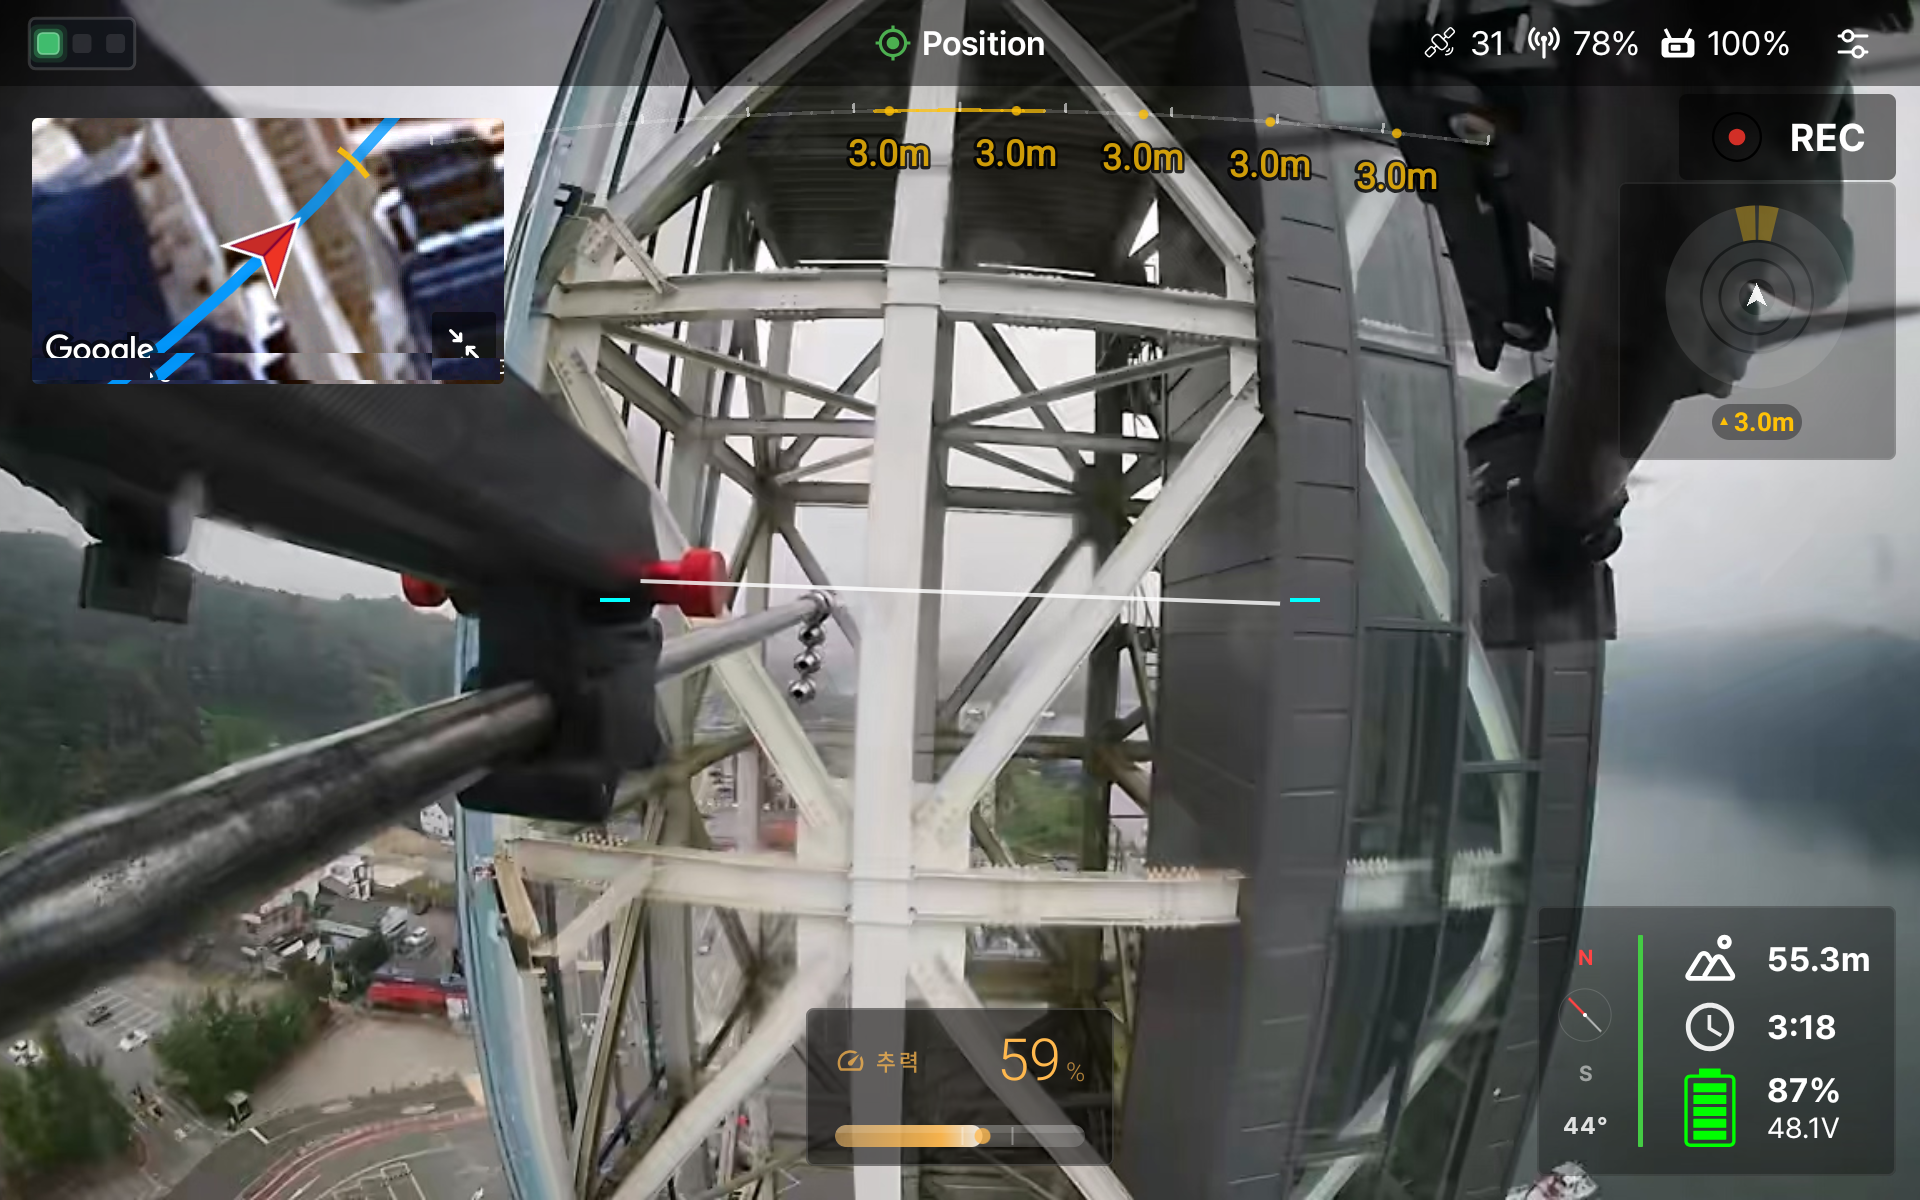
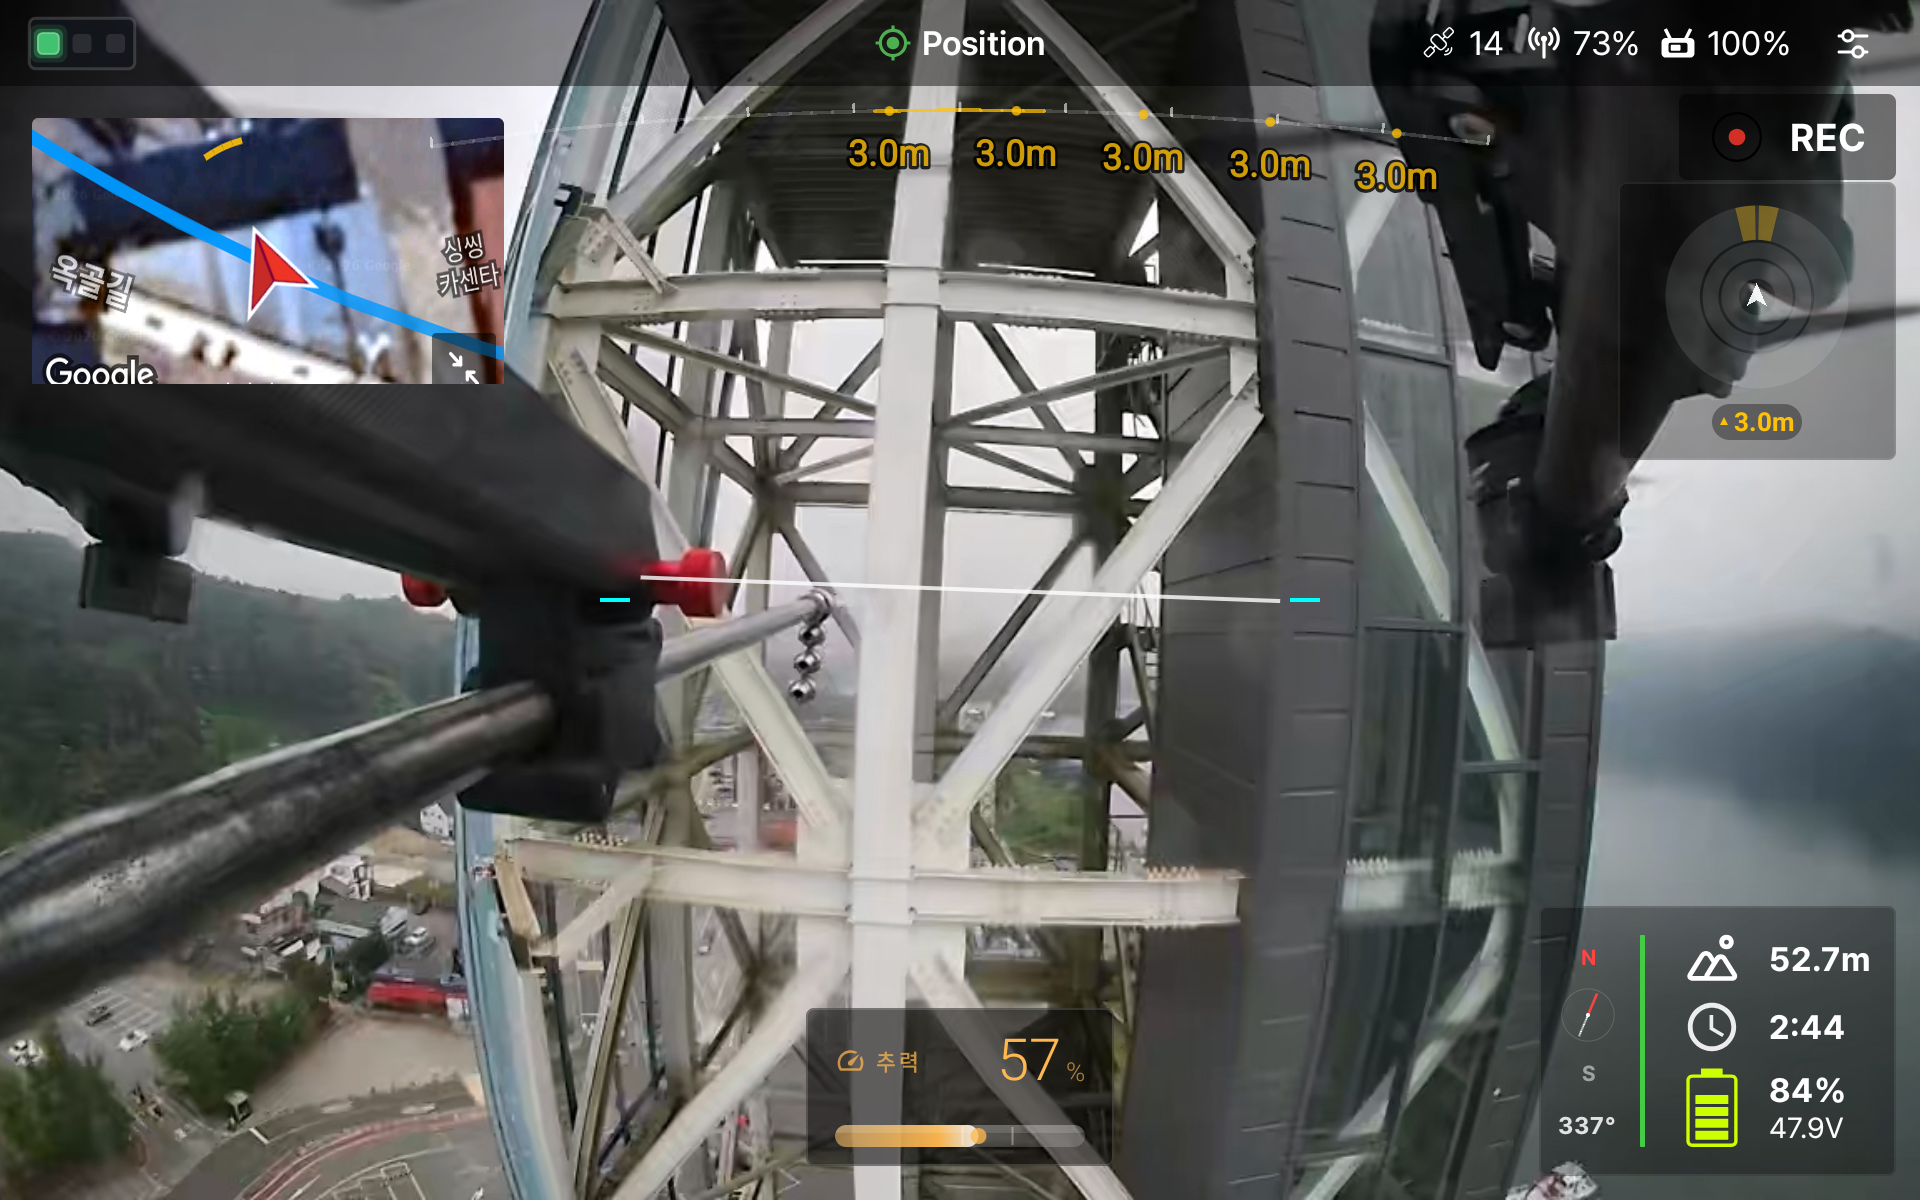
drtview: 지적사항 전면 재촬영 — 장면별 장애물·텔레메트리 정합, 지도 궤적·공역 경계
- fake_drone v4: --scene 프리셋 도입. 장면마다 OBSTACLE_DISTANCE 배열을 배경 프레임과
  정합(개활지=무장애, 들판=전방 원거리, 호반=후방 쿼터, 도심=측면, 타워=전방 3m)하고
  고도·배터리·전압·위성·링크·비행시간·추력을 전부 다르게 송신
- 비행샷 6종 재촬영: 모든 장면에 동일한 전방 3m 리본이 박히던 문제 해소
- map_main: 곡선 궤적이 드러나는 시점으로 재촬영, 비행시간·배터리 정합(8:10/68%)
- 공역: 비행금지구역 경계선이 화면을 가로지르는 지점에서 촬영, 롱프레스 팝업도 동일 좌표
- 지도 저작권 줄 제거를 크롭 방식으로 교체 — 밴드 복제 이음매와 Google 로고 잘림 해소
- 페이지: 히어로를 크롭 없는 전체 표시로 전환, 언어 지원을 독립 섹션으로 승격,
  다운로드 버튼 새 창, 구버전 AR 스크린샷 제거

diff --git a/pages/drtview.html b/pages/drtview.html
@@ -39,26 +39,22 @@
 #dv26 .rv-d2 { transition-delay: .24s; }
 
 /* ============ HERO ============ */
-.dv-hero { position: relative; min-height: 100vh; display: flex !important; flex-direction: column; overflow: hidden; background: var(--bg); }
-.dv-hero-bg { position: absolute; inset: 0; width: 100%; height: 100%; object-fit: cover; object-position: center 42%; }
-.dv-hero-scrim { position: absolute; inset: 0;
-    background: linear-gradient(180deg, rgba(10,12,16,.66) 0%, rgba(10,12,16,.28) 36%, rgba(10,12,16,.55) 68%, rgba(9,11,14,.96) 100%); }
-.dv-hero-top { position: relative; padding: 52px 0 0 !important; text-align: center; }
-.dv-hero-top img { height: 46px; }
-.dv-hero-body { position: relative; margin-top: auto !important; width: 100%; padding-bottom: 140px !important; }
+.dv-hero { position: relative; overflow: hidden; background: radial-gradient(ellipse 90% 60% at 50% -10%, #141B26 0%, var(--bg) 60%) !important; padding-top: 78px !important; }
+.dv-hero-head { text-align: center; }
+.dv-hero-head .dv-logo { height: 48px; margin-bottom: 54px !important; }
 .dv-eyebrow { display: block !important; font-family: 'Outfit', sans-serif; color: var(--accent) !important; font-weight: 700 !important; font-size: .92rem !important; letter-spacing: .3em !important; margin-bottom: 26px !important; text-transform: uppercase; }
-.dv-h1 { font-size: clamp(2.6rem, 6vw, 5.3rem) !important; font-weight: 800 !important; line-height: 1.12 !important; letter-spacing: -0.03em !important; color: var(--ink) !important; margin-bottom: 30px !important; }
-.dv-hero-sub { color: rgba(237,241,246,.85) !important; font-size: 1.24rem !important; line-height: 1.85 !important; max-width: 680px; margin-bottom: 46px !important; }
+.dv-h1 { font-size: clamp(2.6rem, 5.4vw, 5rem) !important; font-weight: 800 !important; line-height: 1.14 !important; letter-spacing: -0.03em !important; color: var(--ink) !important; margin-bottom: 28px !important; }
+.dv-hero-sub { color: var(--dim-strong) !important; font-size: 1.24rem !important; line-height: 1.85 !important; max-width: 680px; margin: 0 auto 44px auto !important; }
 .dv-actions { display: flex; gap: 16px; flex-wrap: wrap; }
+.dv-hero-head .dv-actions { justify-content: center; }
+/* 히어로 스크린샷 — 크롭 없이 전체 표시 */
+.dv-hero-visual { margin-top: 74px !important; }
+.dv-hero-visual img { width: 100% !important; display: block !important; }
 .dv-btn { display: inline-block !important; padding: 17px 46px !important; border-radius: 10px !important; font-weight: 800 !important; font-size: 1rem !important; letter-spacing: .12em !important; cursor: pointer; transition: .25s ease; }
 .dv-btn-solid { background: var(--accent) !important; color: #fff !important; }
 .dv-btn-solid:hover { background: #55AFFF !important; transform: translateY(-2px); }
 .dv-btn-ghost { border: 1px solid rgba(255,255,255,.34) !important; color: var(--ink) !important; background: rgba(10,12,16,.38) !important; letter-spacing: .04em !important; }
 .dv-btn-ghost:hover { border-color: rgba(255,255,255,.7) !important; }
-.dv-scrollcue { position: absolute; bottom: 0; left: 50%; transform: translateX(-50%); display: flex; flex-direction: column; align-items: center; gap: 10px; }
-.dv-scrollcue span { font-size: .7rem; letter-spacing: .34em; color: var(--dim); font-family: 'Outfit', sans-serif; font-weight: 600; }
-.dv-scrollcue i { display: block; width: 1px; height: 52px; background: linear-gradient(180deg, var(--accent), transparent); animation: dvcue 2s ease-in-out infinite; }
-@keyframes dvcue { 0% { transform: scaleY(0); transform-origin: top; } 45% { transform: scaleY(1); transform-origin: top; } 55% { transform: scaleY(1); transform-origin: bottom; } 100% { transform: scaleY(0); transform-origin: bottom; } }
 
 /* ============ FACT STRIP ============ */
 .dv-strip { border-top: 1px solid var(--line) !important; border-bottom: 1px solid var(--line) !important; background: rgba(255,255,255,.015) !important; }
@@ -111,8 +107,13 @@
 .dv-eco > div:first-child { border-left: 0; padding-left: 0 !important; }
 .dv-eco h5 { font-family: 'Outfit', sans-serif; color: var(--accent) !important; font-size: .95rem !important; font-weight: 700 !important; letter-spacing: .22em !important; margin-bottom: 16px !important; text-transform: uppercase; }
 .dv-eco p { color: var(--dim) !important; font-size: 1.08rem !important; line-height: 1.8 !important; }
-.dv-lang { margin-top: 64px !important; padding-top: 30px !important; border-top: 1px solid var(--line) !important; color: var(--dim) !important; font-size: 1.08rem !important; }
-.dv-lang b { color: var(--ink) !important; font-weight: 700 !important; }
+/* languages */
+.dv-flags { display: grid !important; grid-template-columns: repeat(3, 1fr); margin-top: 8px !important; }
+.dv-flags > div { padding: 10px 40px 10px 30px !important; border-left: 1px solid var(--line); }
+.dv-flags > div:first-child { border-left: 0; padding-left: 0 !important; }
+.dv-flags img { width: 66px !important; height: 44px !important; object-fit: cover; border-radius: 5px !important; box-shadow: 0 8px 22px rgba(0,0,0,.45); margin-bottom: 20px !important; display: block !important; }
+.dv-flags h4 { font-size: 1.5rem !important; font-weight: 800 !important; color: var(--ink) !important; margin-bottom: 8px !important; }
+.dv-flags p { color: var(--dim) !important; font-size: 1.04rem !important; line-height: 1.75 !important; }
 
 /* footer */
 .dv-footer { padding: 100px 0 !important; background: #06080B !important; text-align: center; border-top: 1px solid var(--line) !important; }
@@ -122,8 +123,13 @@
 @media (max-width: 1000px) {
     .dv-container { padding: 0 24px !important; }
     #dv26 .dv-sec { padding: 92px 0 !important; }
-    .dv-hero-body { padding-bottom: 110px !important; }
+    .dv-hero { padding-top: 56px !important; }
+    .dv-hero-head .dv-logo { height: 38px; margin-bottom: 36px !important; }
+    .dv-hero-visual { margin-top: 48px !important; }
     .dv-hero-sub { font-size: 1.06rem !important; }
+    .dv-flags { grid-template-columns: 1fr; }
+    .dv-flags > div { border-left: 0; border-top: 1px solid var(--line); padding: 26px 0 !important; }
+    .dv-flags > div:first-child { border-top: 0; padding-top: 0 !important; }
     .dv-strip-grid { grid-template-columns: 1fr 1fr; }
     .dv-strip-grid > div { padding: 26px 22px !important; }
     .dv-strip-grid > div:nth-child(3) { border-left: 0; }
@@ -146,21 +152,19 @@
 
     <!-- HERO -->
     <header class="dv-hero">
-        <img class="dv-hero-bg" src="https://raw.githubusercontent.com/DRT-Jin/drt-web-assets/main/drtview/2026-08/flight_hero_tower.png" alt="">
-        <div class="dv-hero-scrim"></div>
-        <div class="dv-hero-top">
-            <img src="https://cdn.imweb.me/upload/S202410091d710fdfb6029/2e4159a01e616.png" alt="DRTView">
-        </div>
-        <div class="dv-container dv-hero-body">
+        <div class="dv-container dv-hero-head">
+            <img class="dv-logo" src="https://cdn.imweb.me/upload/S202410091d710fdfb6029/2e4159a01e616.png" alt="DRTView">
             <span class="dv-eyebrow">DRT Ground Control Station</span>
-            <h1 class="dv-h1">비행의 모든 순간을,<br>한 화면에</h1>
+            <h1 class="dv-h1">비행의 모든 순간을,<br class="br-pc"> 한 화면에</h1>
             <p class="dv-hero-sub">드론 제조사 DRT가 처음부터 새로 설계한 관제 소프트웨어입니다. <br class="br-pc">이륙 전 점검부터 착륙 후 기록까지, 조종사에게 필요한 것만 정확한 자리에 놓입니다.</p>
             <div class="dv-actions">
-                <a class="dv-btn dv-btn-solid" href="https://www.drtdrone.io/download/?q=YToxOntzOjEyOiJrZXl3b3JkX3R5cGUiO3M6MzoiYWxsIjt9&bmode=view&idx=170704954&t=board">DOWNLOAD</a>
+                <a class="dv-btn dv-btn-solid" target="_blank" rel="noopener" href="https://www.drtdrone.io/download/?q=YToxOntzOjEyOiJrZXl3b3JkX3R5cGUiO3M6MzoiYWxsIjt9&bmode=view&idx=170704954&t=board">DOWNLOAD</a>
                 <a class="dv-btn dv-btn-ghost" href="#dv-01">기능 살펴보기</a>
             </div>
         </div>
-        <div class="dv-scrollcue"><span>SCROLL</span><i></i></div>
+        <div class="dv-hero-visual">
+            <img src="https://raw.githubusercontent.com/DRT-Jin/drt-web-assets/main/drtview/2026-08/flight_lake.png" alt="DRTView 실시간 비행 화면">
+        </div>
     </header>
 
     <!-- FACT STRIP -->
@@ -203,8 +207,8 @@
                 <h2 class="dv-title">영상 위에는<br>필요한 정보만</h2>
                 <p class="dv-desc">자체 개발 영상 파이프라인이 <strong>고해상도 영상을 지연 없이</strong> 그립니다. 고도·비행 시간·배터리·추력은 화면 가장자리에 정돈되고, 조종사의 시선은 기체에서 떠나지 않습니다. 짐벌과 카메라 조작도 같은 화면에서 이뤄집니다.</p>
             </div>
-            <div class="dv-shot rv rv-d1"><img src="https://raw.githubusercontent.com/DRT-Jin/drt-web-assets/main/drtview/2026-08/flight_lake.png" alt="실시간 비행 HUD"></div>
-            <p class="dv-cap rv rv-d2">실시간 HUD — 전방 장애물 거리 리본, 지도 PIP, 비행 데이터가 영상 위에 함께 놓입니다.</p>
+            <div class="dv-shot rv rv-d1"><img src="https://raw.githubusercontent.com/DRT-Jin/drt-web-assets/main/drtview/2026-08/flight_road.png" alt="실시간 비행 HUD"></div>
+            <p class="dv-cap rv rv-d2">실시간 HUD — 지도 PIP·자세선·비행 데이터가 영상 위에 정돈됩니다.</p>
         </div>
     </section>
 
@@ -244,7 +248,7 @@
                 <h2 class="dv-title">궤적과 공역이<br>한 지도 위에</h2>
                 <p class="dv-desc">실시간 위치와 지나온 경로가 지도에 그대로 남습니다. 비행금지·관제권 공역은 <strong>색으로 구분</strong>되고, 길게 누르면 구역 이름과 등급이 열립니다. 지도 데이터는 오프라인에서도 유지됩니다.</p>
             </div>
-            <div class="dv-shot crop-l rv rv-d1"><img src="https://raw.githubusercontent.com/DRT-Jin/drt-web-assets/main/drtview/2026-08/map_main.png" alt="비행 궤적이 남는 메인 지도"></div>
+            <div class="dv-shot rv rv-d1"><img src="https://raw.githubusercontent.com/DRT-Jin/drt-web-assets/main/drtview/2026-08/map_main.png" alt="비행 궤적이 남는 메인 지도"></div>
             <p class="dv-cap rv rv-d1">지나온 경로가 궤적으로 남는 메인 지도 — 영상은 PIP로 함께 확인합니다.</p>
             <div class="dv-pair rv rv-d2">
                 <div>
@@ -261,7 +265,7 @@
 
     <!-- REAL RENDER BAND -->
     <div class="dv-band rv">
-        <img src="https://raw.githubusercontent.com/DRT-Jin/drt-web-assets/main/drtview/2026-08/flight_city.png" alt="">
+        <img src="https://raw.githubusercontent.com/DRT-Jin/drt-web-assets/main/drtview/2026-08/flight_hero_tower.png" alt="">
         <div class="dv-band-scrim"></div>
         <div class="dv-band-txt">
             <span class="dv-eyebrow">Real Render — Not a Mockup</span>
@@ -278,10 +282,6 @@
             </div>
             <div class="dv-cols" style="margin-top:56px;">
                 <div class="dv-stack rv rv-d2">
-                    <div>
-                        <div class="dv-shot"><img src="https://cdn.imweb.me/upload/S202410091d710fdfb6029/1b4758697f16e.jpg" alt="반자동 청소 AR 가이드"></div>
-                        <p class="dv-cap">반자동 청소 AR 가이드 — NEXA1 전용</p>
-                    </div>
                     <div>
                         <div class="dv-shot"><img src="https://raw.githubusercontent.com/DRT-Jin/drt-web-assets/main/drtview/2026-08/update_popup.png" alt="앱 업데이트 안내"></div>
                         <p class="dv-cap">홈 화면의 새 버전 안내 — 한 번의 터치로 갱신</p>
@@ -339,18 +339,45 @@
                     <p>MK15·MK32 등 Android 조종기와 태블릿에서 동작합니다.</p>
                 </div>
             </div>
-            <p class="dv-lang rv rv-d2"><b>한국어 · English · 日本語</b> — 독자 개발 앱이기에, 새 언어는 파트너 요청에 맞춰 빠르게 추가됩니다.</p>
+        </div>
+    </section>
+
+    <!-- 08 LANGUAGES -->
+    <section class="dv-sec" id="dv-08">
+        <div class="dv-container">
+            <div class="rv">
+                <div class="dv-index">08 — Languages</div>
+                <h2 class="dv-title">세 개의 언어로,<br>어느 현장에서든</h2>
+                <p class="dv-desc">한국어·영어·일본어를 <strong>완전 지원</strong>합니다. 독자 개발 앱이기에 화면 전체가 각 언어에 맞게 다듬어져 있고, 새 언어는 파트너 요청에 맞춰 빠르게 추가됩니다.</p>
+            </div>
+            <div class="dv-flags rv rv-d1">
+                <div>
+                    <img src="https://flagcdn.com/w160/kr.png" alt="한국">
+                    <h4>한국어</h4>
+                    <p>기본 언어 — 경고·안내 음성까지 현장 용어 그대로.</p>
+                </div>
+                <div>
+                    <img src="https://flagcdn.com/w160/us.png" alt="영어권">
+                    <h4>English</h4>
+                    <p>글로벌 표준 — 해외 운용과 수출 장비에 대응합니다.</p>
+                </div>
+                <div>
+                    <img src="https://flagcdn.com/w160/jp.png" alt="일본">
+                    <h4>日本語</h4>
+                    <p>일본 시장 대응 — 현지 파트너십을 지원합니다.</p>
+                </div>
+            </div>
         </div>
     </section>
 
     <!-- CTA -->
     <div class="dv-band rv">
-        <img src="https://raw.githubusercontent.com/DRT-Jin/drt-web-assets/main/drtview/2026-08/flight_road.png" alt="">
+        <img src="https://raw.githubusercontent.com/DRT-Jin/drt-web-assets/main/drtview/2026-08/flight_city.png" alt="">
         <div class="dv-band-scrim"></div>
         <div class="dv-band-txt">
             <h2>다음 비행은,<br>DRTView와 함께</h2>
             <div class="dv-actions" style="margin-top:38px; justify-content:center;">
-                <a class="dv-btn dv-btn-solid" href="https://www.drtdrone.io/download/?q=YToxOntzOjEyOiJrZXl3b3JkX3R5cGUiO3M6MzoiYWxsIjt9&bmode=view&idx=170704954&t=board">DOWNLOAD</a>
+                <a class="dv-btn dv-btn-solid" target="_blank" rel="noopener" href="https://www.drtdrone.io/download/?q=YToxOntzOjEyOiJrZXl3b3JkX3R5cGUiO3M6MzoiYWxsIjt9&bmode=view&idx=170704954&t=board">DOWNLOAD</a>
             </div>
             <p class="dv-note">DRT 기체 패키지의 조종기에는 기본 설치되어 있습니다.</p>
         </div>
